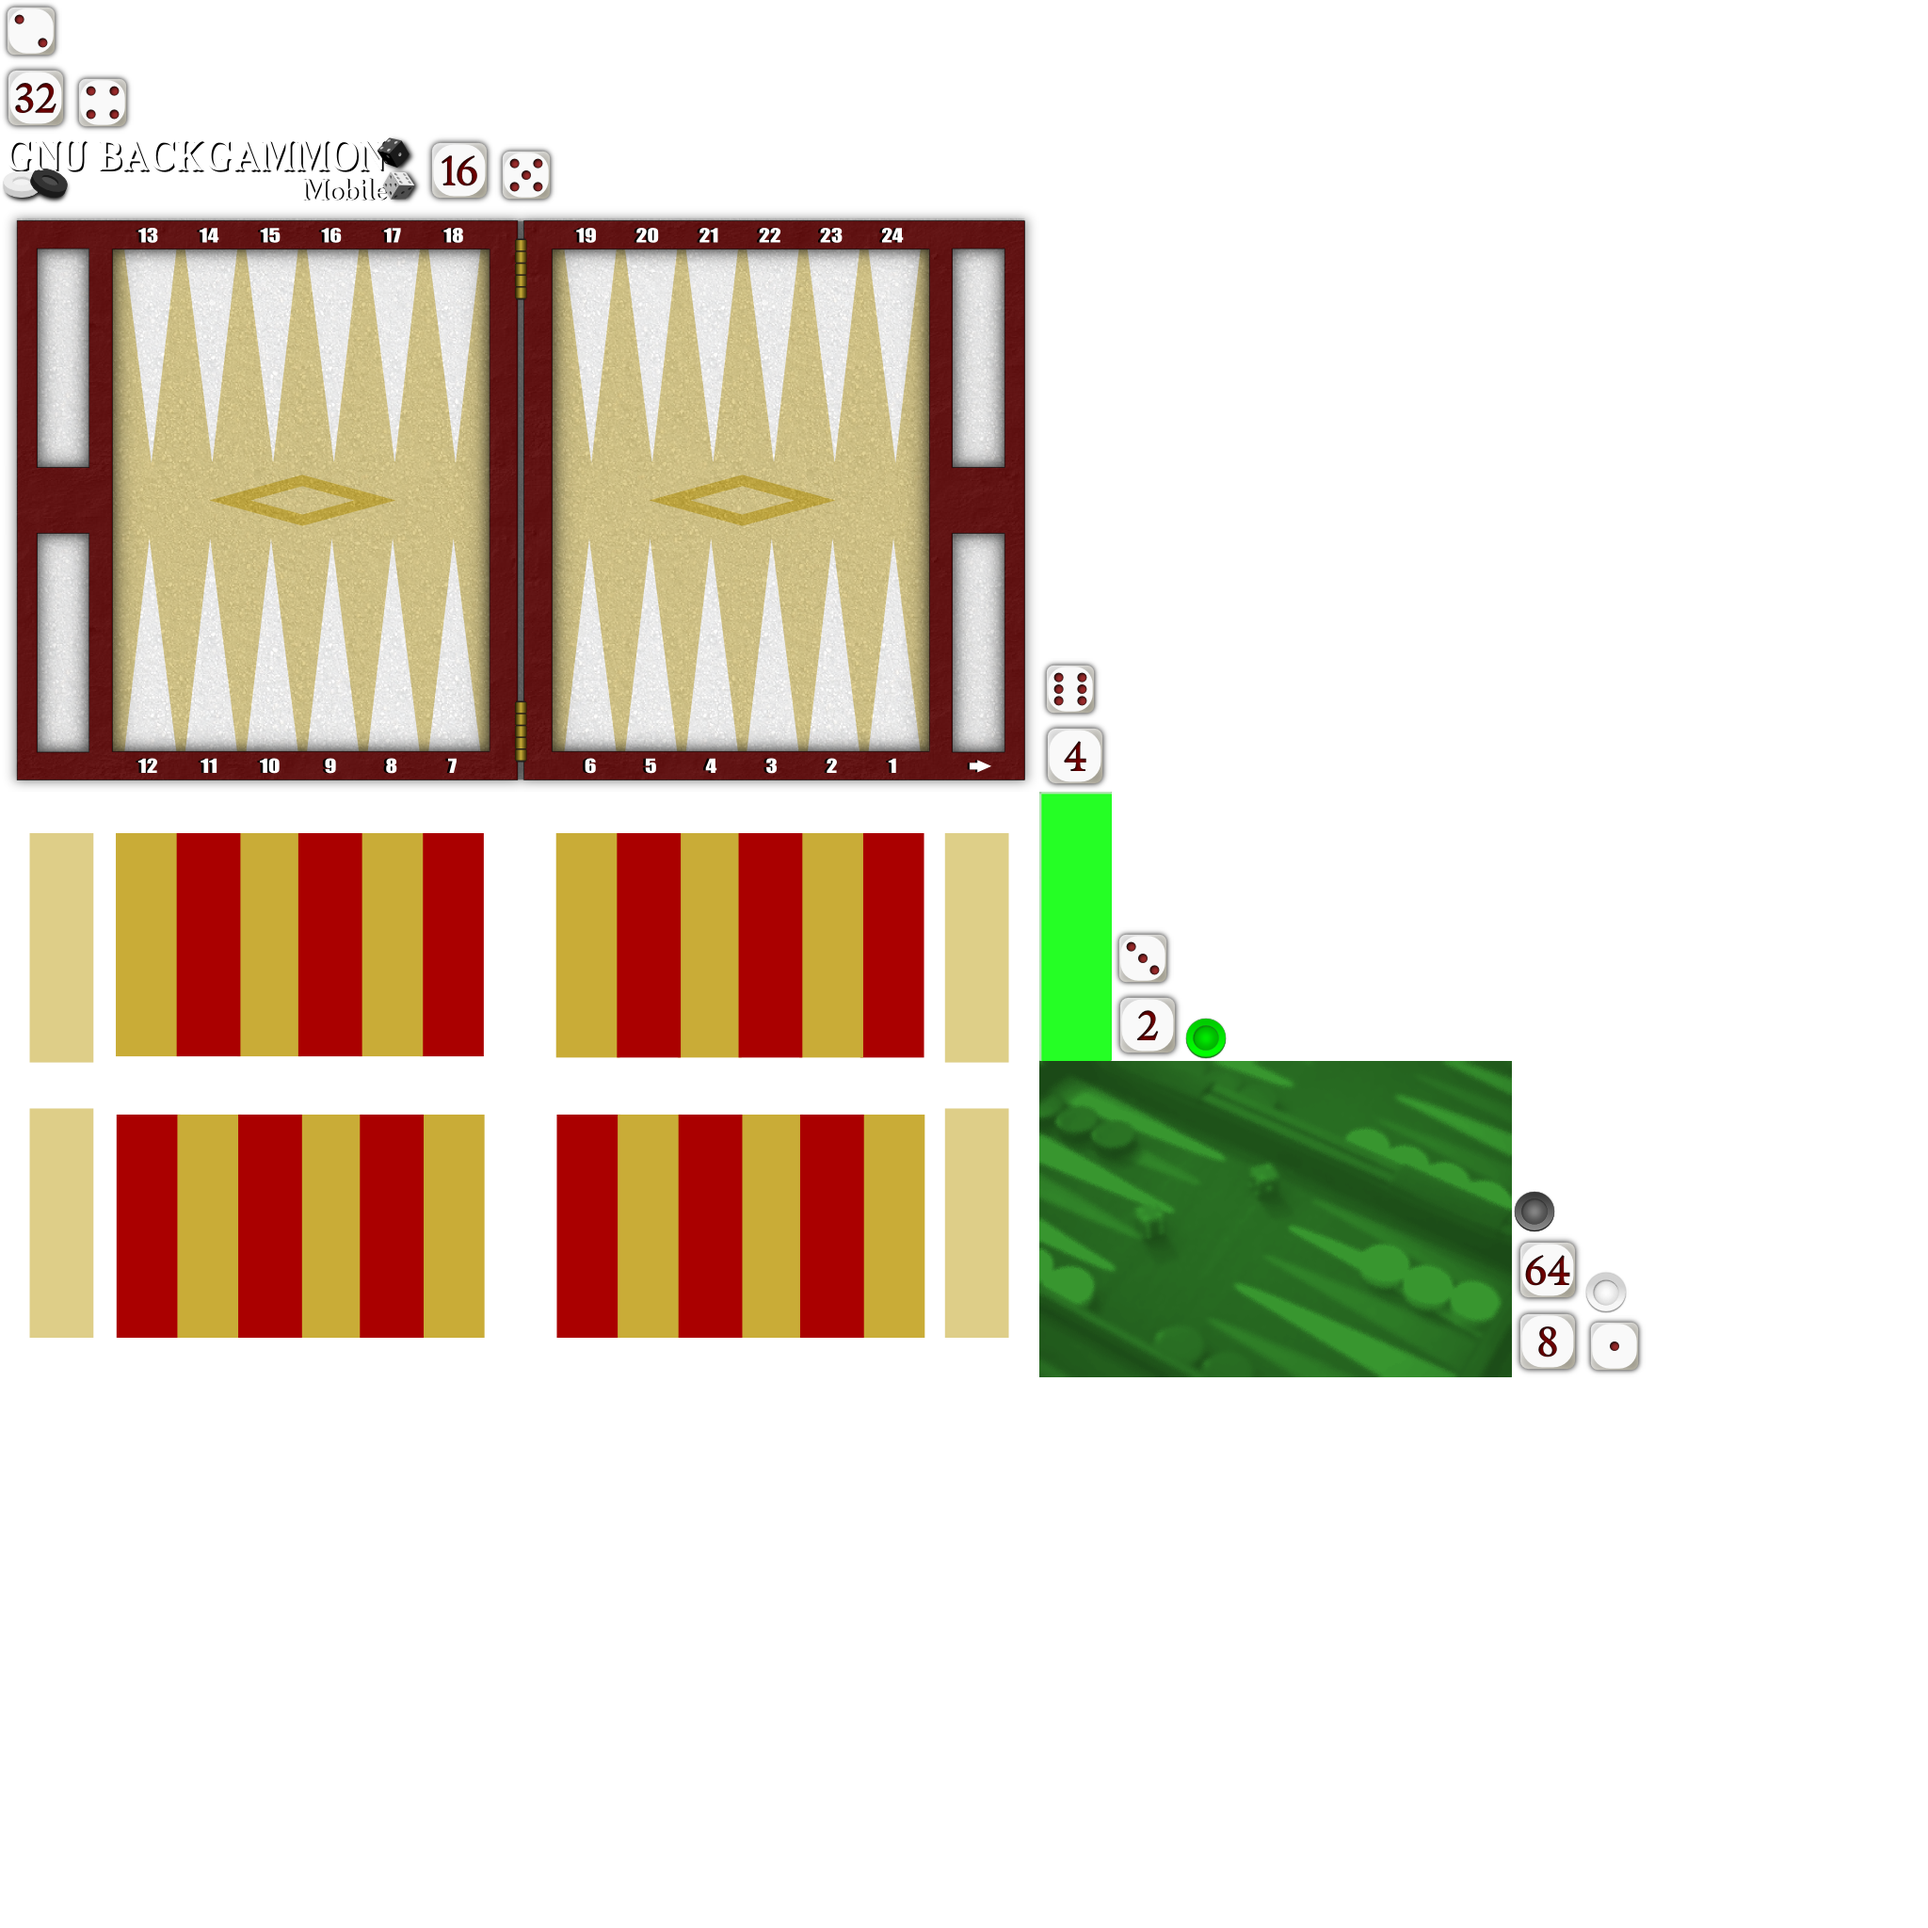
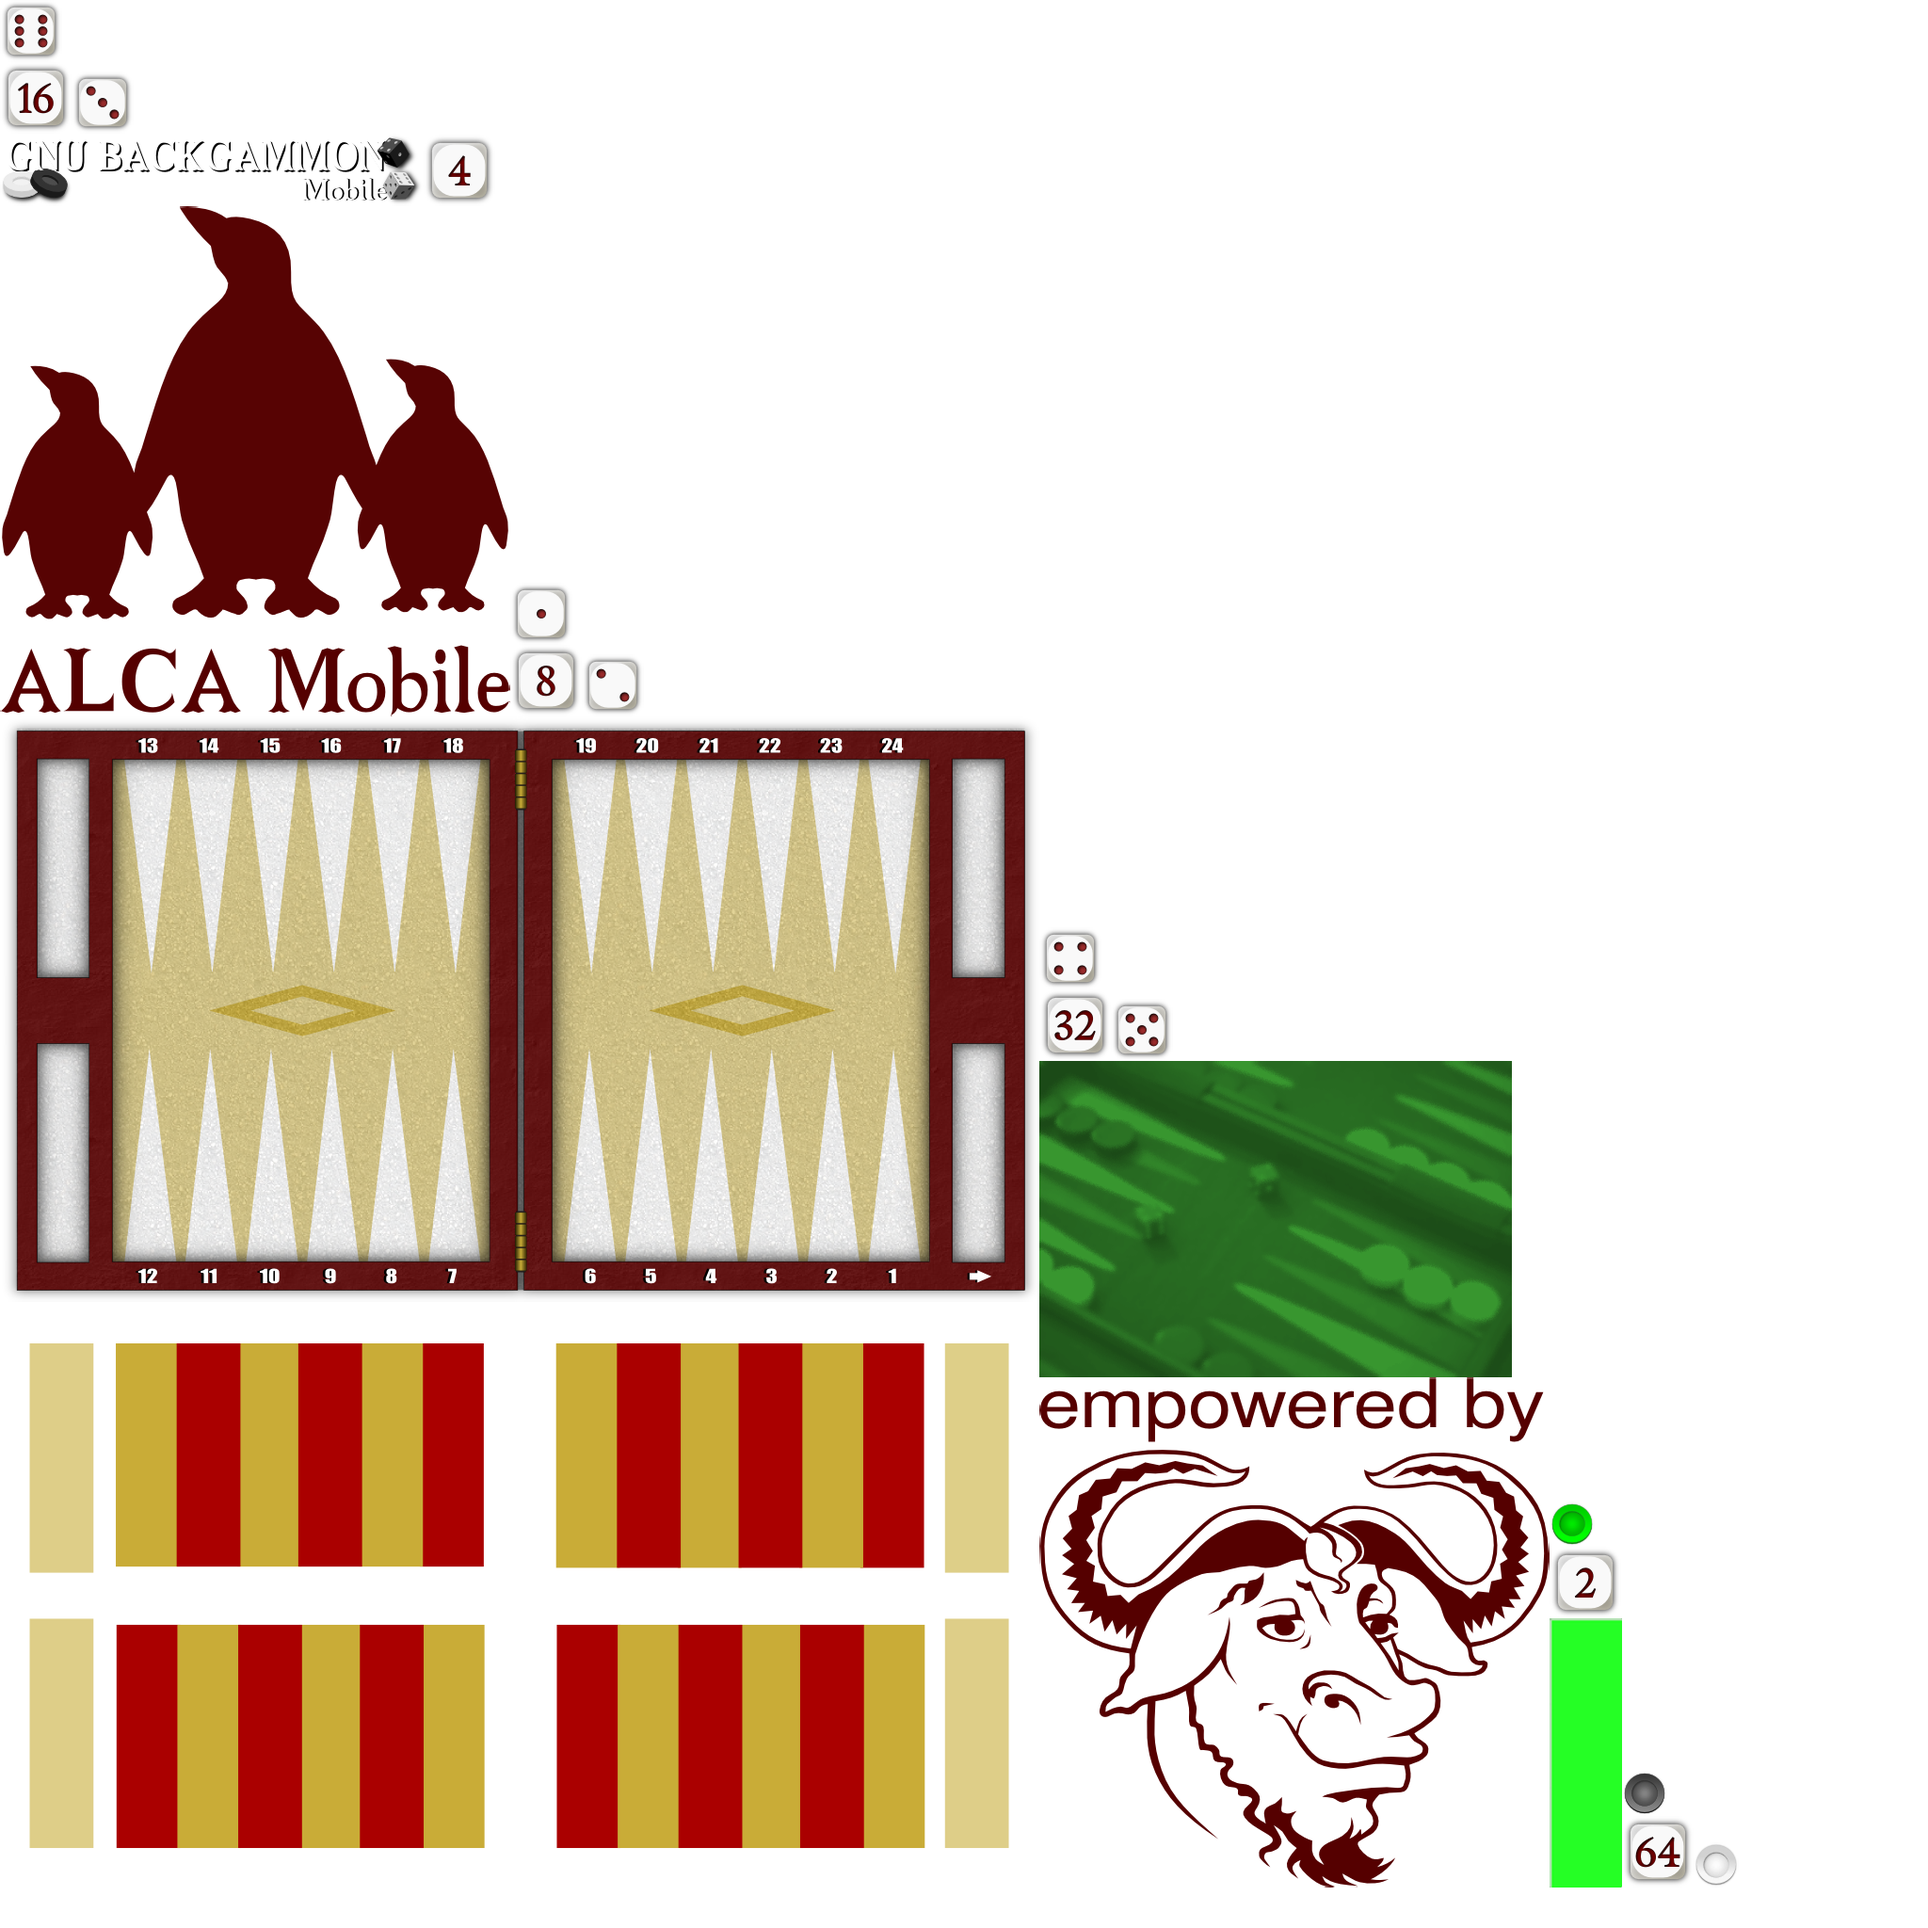
FEATURE: splash screen

diff --git a/GnuBackgammon/src/it/alcacoop/gnubackgammon/layers/SplashScreen.java b/GnuBackgammon/src/it/alcacoop/gnubackgammon/layers/SplashScreen.java
@@ -1,0 +1,98 @@
+package it.alcacoop.gnubackgammon.layers;
+
+import it.alcacoop.gnubackgammon.GnuBackgammon;
+import com.badlogic.gdx.Gdx;
+import com.badlogic.gdx.Screen;
+import com.badlogic.gdx.graphics.GL10;
+import com.badlogic.gdx.graphics.g2d.TextureRegion;
+import com.badlogic.gdx.scenes.scene2d.Stage;
+import com.badlogic.gdx.scenes.scene2d.actions.Actions;
+import com.badlogic.gdx.scenes.scene2d.ui.Image;
+
+
+public class SplashScreen implements Screen {
+
+  private Stage stage;
+  private final Image alca;
+  private final Image gnu;
+  
+  public SplashScreen(){
+    stage = new Stage(Gdx.graphics.getWidth(), Gdx.graphics.getHeight(), false);
+    stage.setViewport(GnuBackgammon.resolution[0], GnuBackgammon.resolution[1], false);
+    
+    TextureRegion r = GnuBackgammon.atlas.findRegion("alca");
+    
+    alca = new Image(r);
+    alca.setX((stage.getWidth()-alca.getWidth())/2);
+    alca.setY((stage.getHeight()-alca.getHeight())/2);
+    alca.setColor(1,1,1,0);
+    
+    r = GnuBackgammon.atlas.findRegion("gnu");
+    gnu = new Image(r);
+    gnu.setX((stage.getWidth()-gnu.getWidth())/2);
+    gnu.setY((stage.getHeight()-gnu.getHeight())/2);
+    gnu.setColor(1,1,1,0);
+    
+    stage.addActor(alca);
+    stage.addActor(gnu);
+  }
+
+
+  @Override
+  public void render(float delta) {
+    Gdx.gl.glClearColor(1, 1, 1, 1);
+    Gdx.gl.glClear(GL10.GL_COLOR_BUFFER_BIT);
+    stage.act(delta);
+    stage.draw();
+  }
+
+
+  @Override
+  public void resize(int width, int height) {
+  }
+
+  
+  @Override
+  public void show() {
+    alca.addAction(Actions.sequence(
+        Actions.delay(0.1f),
+        Actions.fadeIn(0.8f),
+        Actions.delay(1.5f),
+        Actions.fadeOut(0.8f),
+        Actions.delay(0.6f),
+        Actions.run(new Runnable() {
+          @Override
+          public void run() {
+            gnu.addAction(Actions.sequence(
+                Actions.fadeIn(0.8f),
+                Actions.delay(1.5f),
+                Actions.fadeOut(0.8f),
+                Actions.delay(0.6f),
+                Actions.run(new Runnable() {
+                  @Override
+                  public void run() {
+                    GnuBackgammon.Instance.goToScreen(6);
+                  }
+                })
+            ));
+          }
+        })
+      ));
+  }
+
+  @Override
+  public void hide() {
+  }
+
+  @Override
+  public void pause() {
+  }
+
+  @Override
+  public void resume() {
+  }
+
+  @Override
+  public void dispose() {
+  }
+}

diff --git a/GnuBackgammon/src/it/alcacoop/gnubackgammon/layers/WelcomeScreen.java b/GnuBackgammon/src/it/alcacoop/gnubackgammon/layers/WelcomeScreen.java
@@ -7,7 +7,6 @@ import com.badlogic.gdx.graphics.GL10;
 import com.badlogic.gdx.graphics.g2d.TextureRegion;
 import com.badlogic.gdx.scenes.scene2d.InputEvent;
 import com.badlogic.gdx.scenes.scene2d.Stage;
-import com.badlogic.gdx.scenes.scene2d.actions.Actions;
 import com.badlogic.gdx.scenes.scene2d.ui.Image;
 import com.badlogic.gdx.scenes.scene2d.ui.Table;
 import com.badlogic.gdx.scenes.scene2d.ui.TextButton;
@@ -47,27 +46,26 @@ public class WelcomeScreen implements Screen {
     GnuBackgammon.Instance.setFSM("SIMULATED_FSM");
     
     table = new Table();
-    table.setFillParent(true);
     
-    table.row();
-    table.add().fill().expand().colspan(5);
-    table.row();
+    table.setWidth(stage.getWidth()*0.9f);
+    table.setHeight(stage.getHeight()*0.85f);
+    table.setX((stage.getWidth()-table.getWidth())/2);
+    table.setY((stage.getHeight()-table.getHeight())/2);
+    
     table.add(i).colspan(5);
     
-    table.row().height(stage.getHeight()*0.75f);
-    table.add().width(stage.getWidth()*0.1f);
-    table.add(GnuBackgammon.Instance.board).width(stage.getWidth()*0.7f).colspan(3).height(stage.getHeight()*0.65f);
-    table.add().width(stage.getWidth()*0.1f);
-    
-    table.row().height(stage.getHeight()*0.1f);
-    table.add().fill().expand();
-    table.add().width(stage.getWidth()*0.2f);
-    table.add(play).fill().expand();
-    table.add().width(stage.getWidth()*0.2f);
-    table.add().fill().expand();
+    table.row();
+    table.add().expand().fill();
+    table.add(GnuBackgammon.Instance.board).expand().width(stage.getWidth()*0.65f).height(stage.getHeight()*0.6f).colspan(3);
+    table.add().expand().fill();
     
     table.row();
-    table.add().fill().expand().colspan(5);
+    table.add().colspan(5).fill().expand();
+    
+    table.row();
+    table.add().fill().expand().colspan(2);
+    table.add(play).fill().expand().width(stage.getWidth()*0.35f);
+    table.add().fill().expand().colspan(2);
     
     stage.addActor(table);
   }
@@ -94,8 +92,6 @@ public class WelcomeScreen implements Screen {
     bgImg.setWidth(stage.getWidth());
     bgImg.setHeight(stage.getHeight());
     Gdx.input.setInputProcessor(stage);
-    table.setColor(1,1,1,0);
-    table.addAction(Actions.sequence(Actions.delay(0.1f),Actions.fadeIn(0.6f)));
   }
 
   @Override

diff --git a/GnuBackgammon/src/it/alcacoop/gnubackgammon/GnuBackgammon.java b/GnuBackgammon/src/it/alcacoop/gnubackgammon/GnuBackgammon.java
@@ -10,6 +10,7 @@ import it.alcacoop.gnubackgammon.layers.GameScreen;
 import it.alcacoop.gnubackgammon.layers.MatchOptionsScreen;
 import it.alcacoop.gnubackgammon.layers.MainMenuScreen;
 import it.alcacoop.gnubackgammon.layers.OptionsScreen;
+import it.alcacoop.gnubackgammon.layers.SplashScreen;
 import it.alcacoop.gnubackgammon.layers.WelcomeScreen;
 import it.alcacoop.gnubackgammon.utils.JSONProperties;
 
@@ -92,7 +93,6 @@ public class GnuBackgammon extends Game implements ApplicationListener {
     
     fsm = simulationFSM;
     
-    
     gameScreen = new GameScreen();
     matchOptionsScreen = new MatchOptionsScreen();
     menuScreen = new MainMenuScreen();
@@ -100,7 +100,7 @@ public class GnuBackgammon extends Game implements ApplicationListener {
     welcomeScreen = new WelcomeScreen();
     aboutScreen = new AboutScreen();
     
-    setScreen(welcomeScreen);
+    setScreen(new SplashScreen());
   }
 
   
@@ -139,6 +139,11 @@ public class GnuBackgammon extends Game implements ApplicationListener {
       case 5:
         currentScreen = aboutScreen;
         setScreen(aboutScreen);
+        break;
+        
+      case 6:
+        currentScreen = welcomeScreen;
+        setScreen(welcomeScreen);
         break;
     }
   }

diff --git a/GnuBackgammon-desktop/src/it/alcacoop/gnubackgammon/Main.java b/GnuBackgammon-desktop/src/it/alcacoop/gnubackgammon/Main.java
@@ -11,8 +11,8 @@ public class Main {
   public static void main(String[] args) {
     LwjglApplicationConfiguration cfg = new LwjglApplicationConfiguration();
     cfg.title = "GnuBackgammon";
-    cfg.width = 800;
-    cfg.height = 480;
+    cfg.width = 480;
+    cfg.height = 320;
     
     new LwjglApplication(new GnuBackgammon(), cfg);
     
